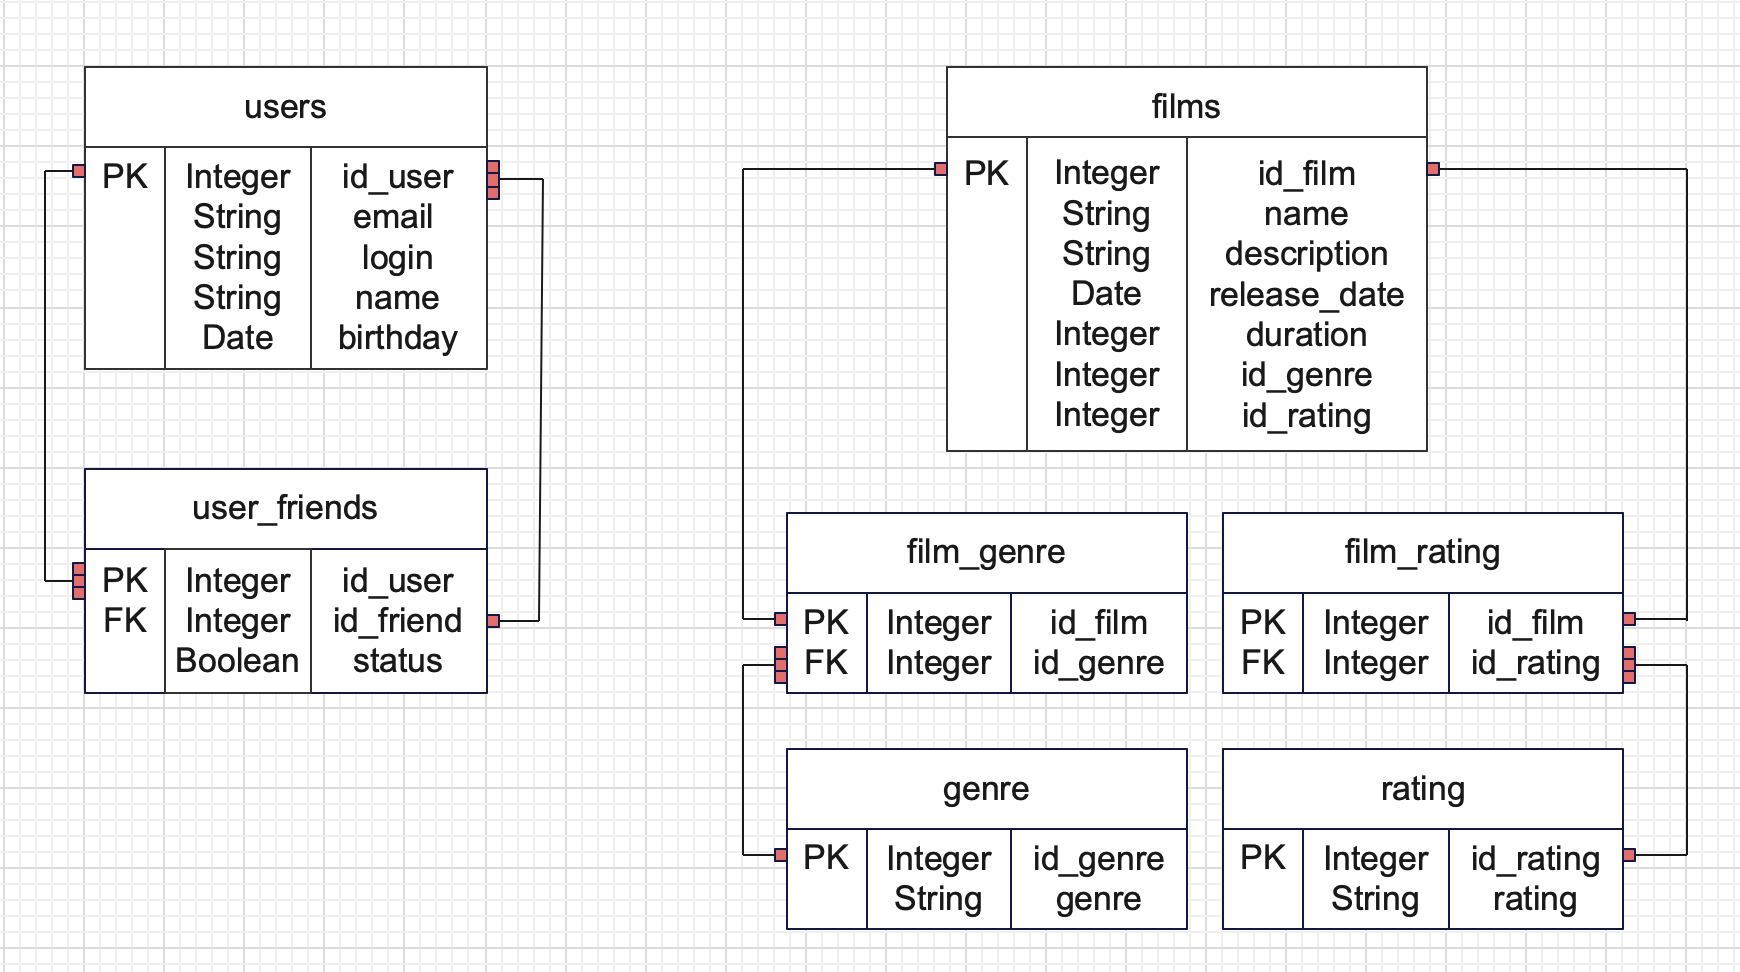
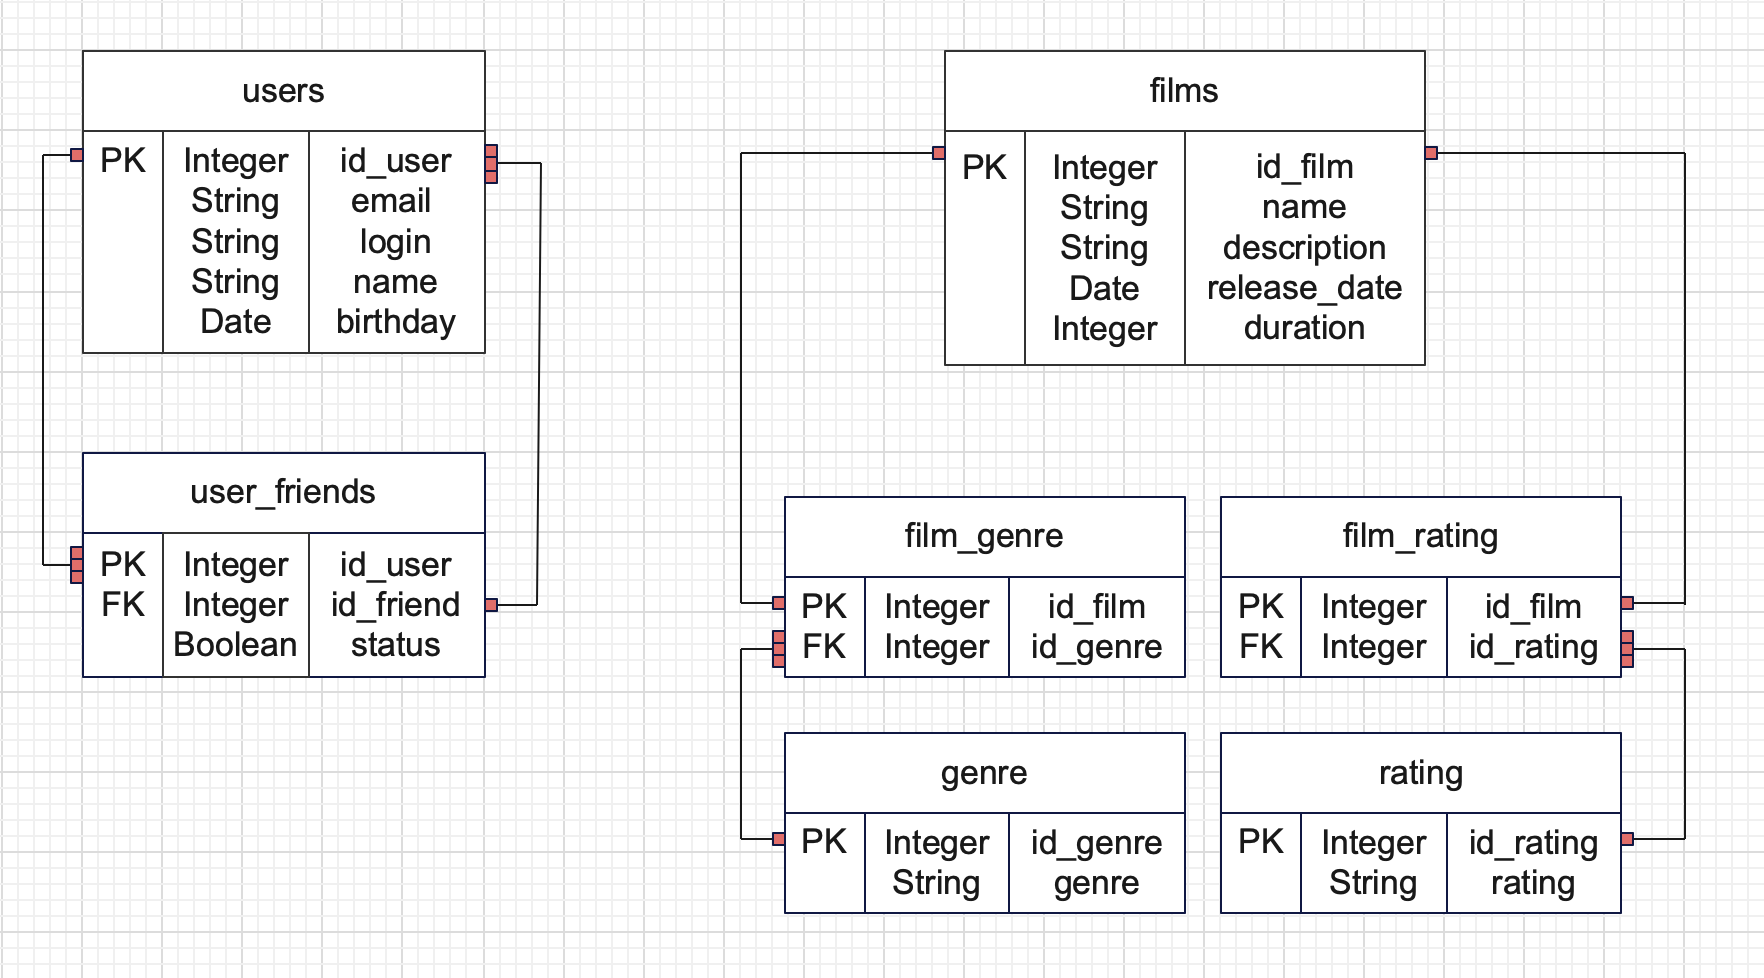
correct schema and requests

diff --git a/README_ER.md b/README_ER.md
@@ -24,9 +24,7 @@ CREATE TABLE IF NOT EXISTS films(
     name VARCHAR (200) NOT NULL,
     description VARCHAR (400) NOT NULL,
     release_date DATE NOT NULL,
-    duration INTEGER NOT NULL,
-    id_genre INTEGER NOT NULL,
-    id_rating INTEGER NOT NULL
+    duration INTEGER NOT NULL
 );
 
 CREATE TABLE IF NOT EXISTS genre(
@@ -79,9 +77,7 @@ INSERT INTO films
             'Limitless',
             'science fiction film',
             '2011-01-01',
-            '105',
-            (select id_genre from genre where genre = 'COMEDY'),
-            (select id_rating from rating where rating = 'G'));
+            '105';
             
 INSERT INTO film_genre (id_film, id_genre)
 SELECT id_film, id_genre
@@ -99,9 +95,7 @@ WHERE id = '1';
 UPDATE films SET name = 'Limit', 
                  description = 'science',
                  '2011-01-01',
-                 '105',
-                 (select id_genre from genre where genre = 'COMEDY'),
-                 (select id_rating from rating where rating = 'G')
+                 '105'
 WHERE id = '1';
 
 UPDATE film_genre SET (id_film, id_genre) = 
@@ -116,10 +110,12 @@ UPDATE film_rating SET (id_film, id_rating) =
 ```
 - get/films:
 ```
-SELECT f.id_film, f.name, f.description, f.release_date, f.duration, g.name, r.rating
+SELECT f.id_film, f.name, f.description, f.release_date, f.duration, g.name AS genre, r.rating AS rating
 FROM films AS f
-INNER JOIN genre AS g ON f.id_genre = g.id_genre
-INNER JOIN rating AS r ON f.id_rating = r.id_rating;
+INNER JOIN film_genre AS fg ON f.id_film = fg.id_film
+INNER JOIN genre AS g ON fg.id_genre = g.id_genre
+INNER JOIN film_rating AS fr ON f.id_film = fr.id_film
+INNER JOIN rating AS r ON fr.id_rating = r.id_rating;
 ```
 - post/users:<br>
   user(1, "mail@ya.ru", "PeterPan", "Peter", LocalDate.of(2000, 10, 10));
